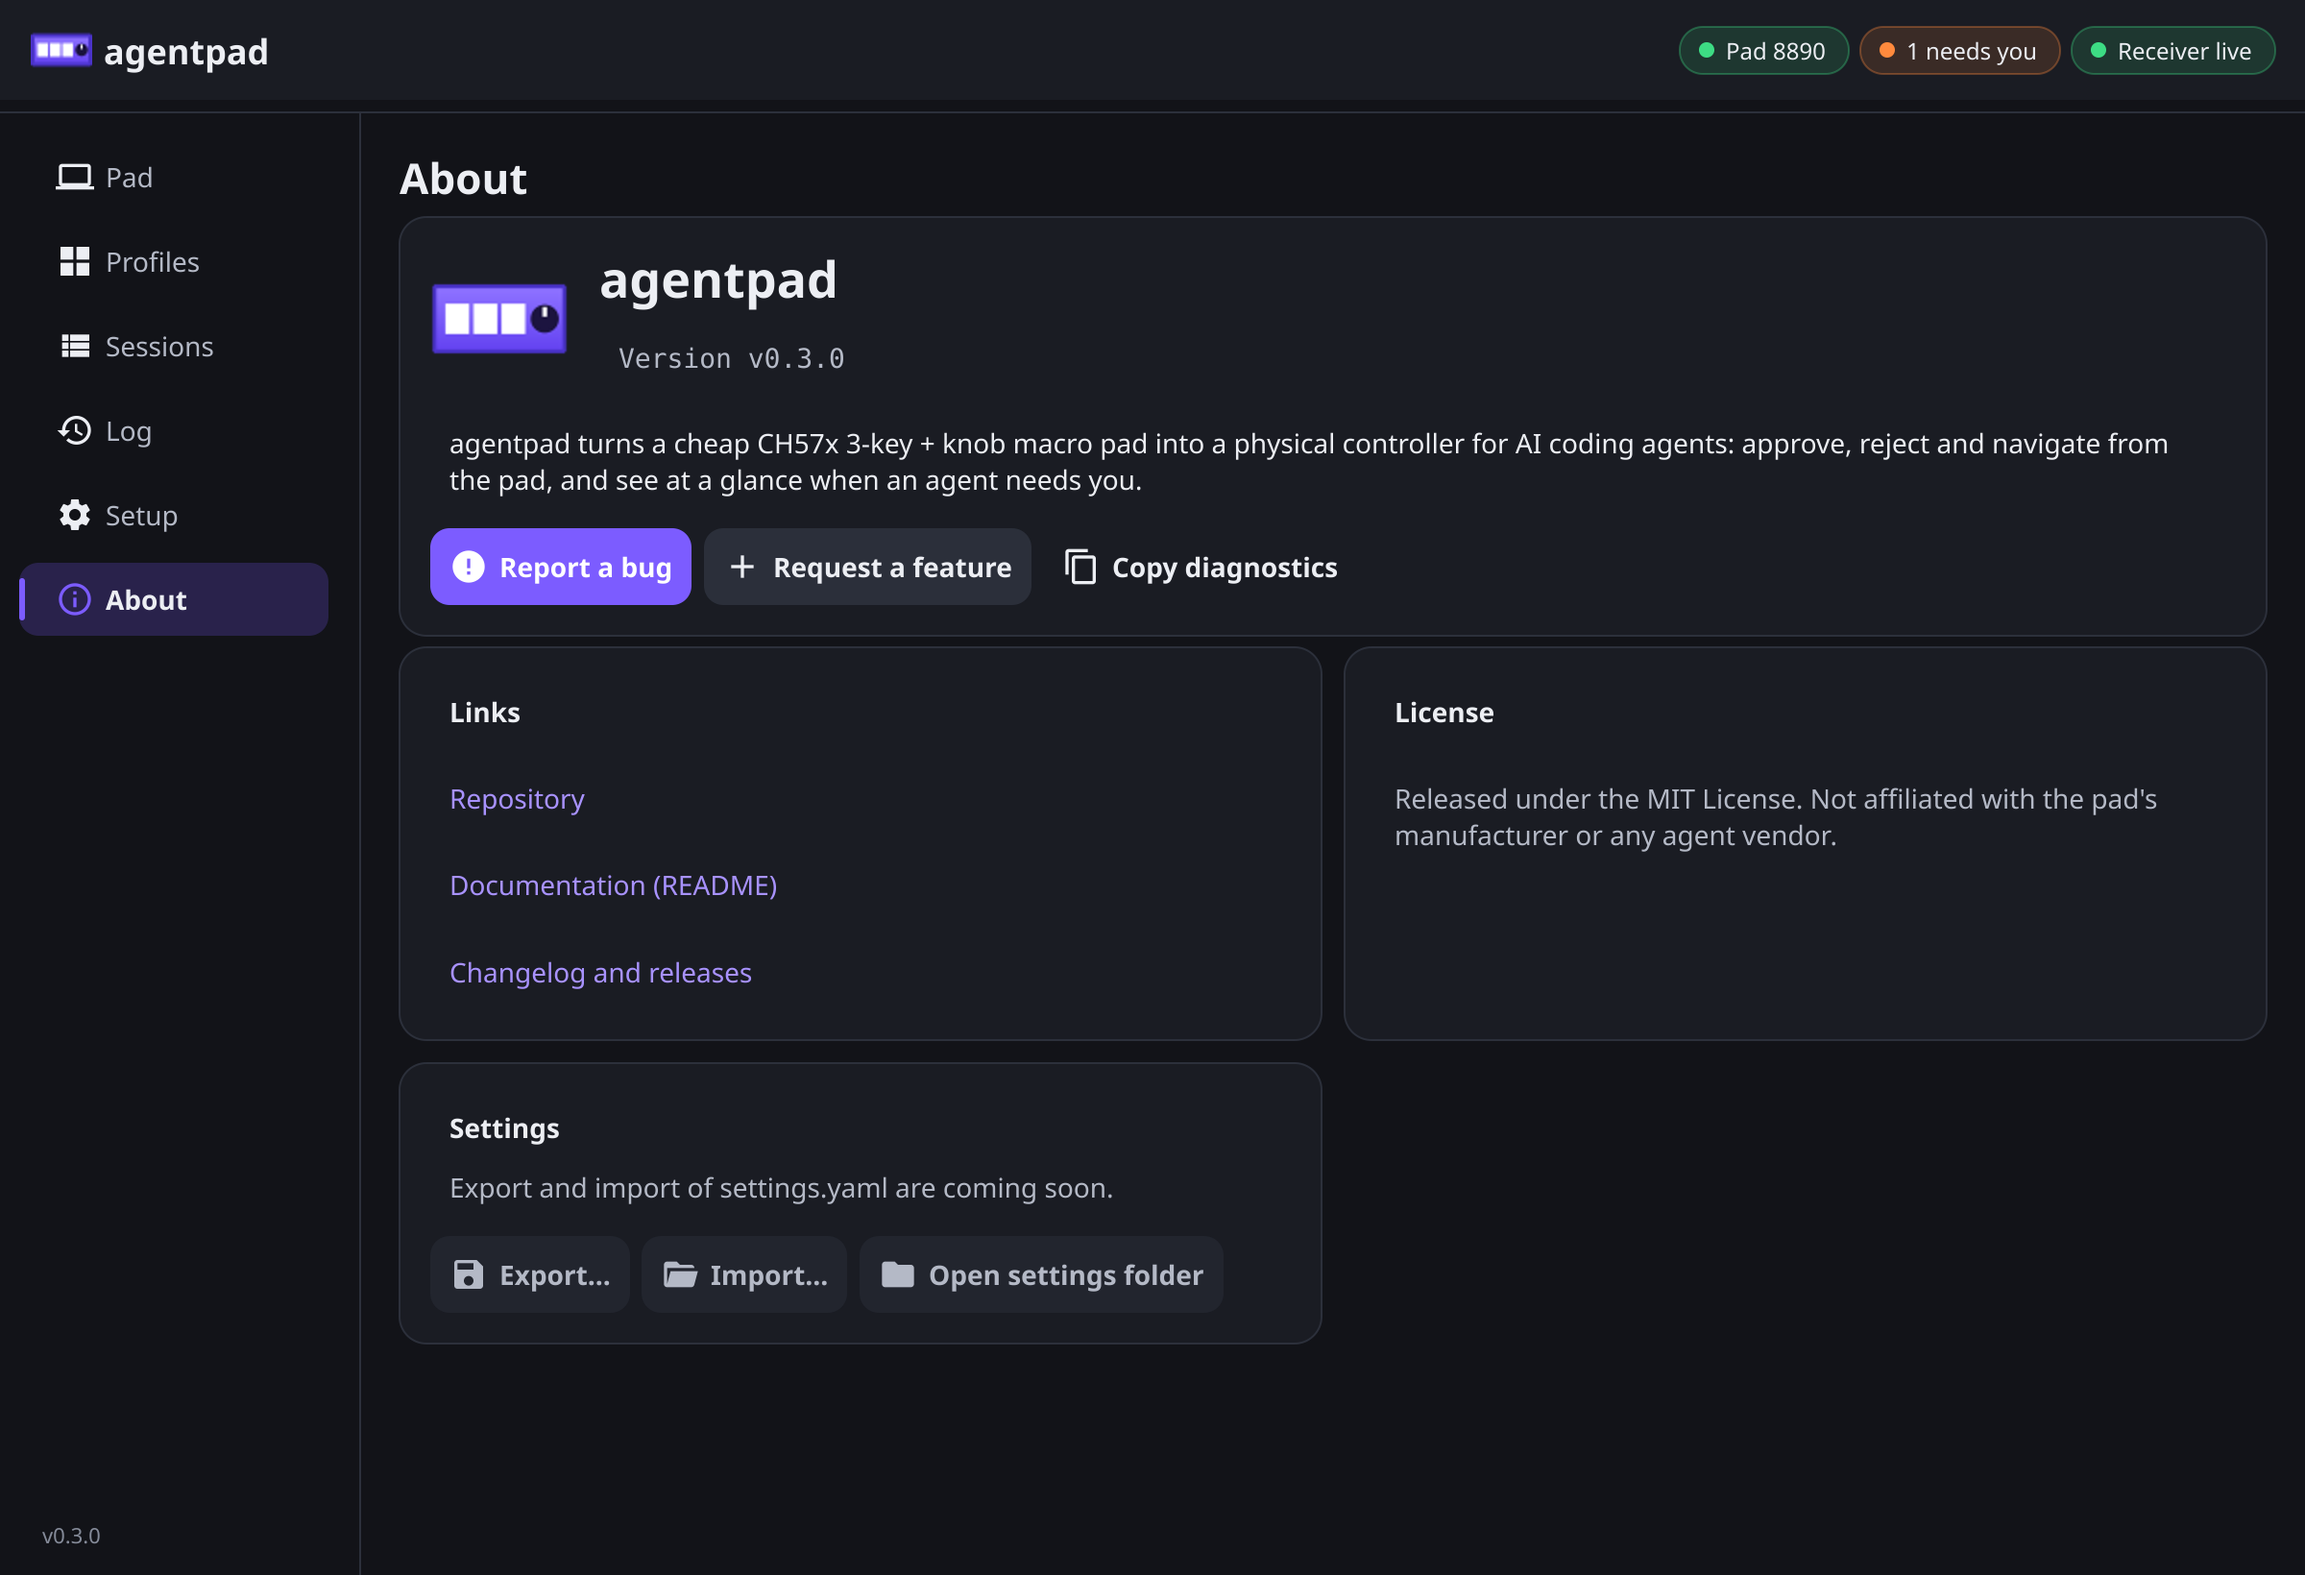
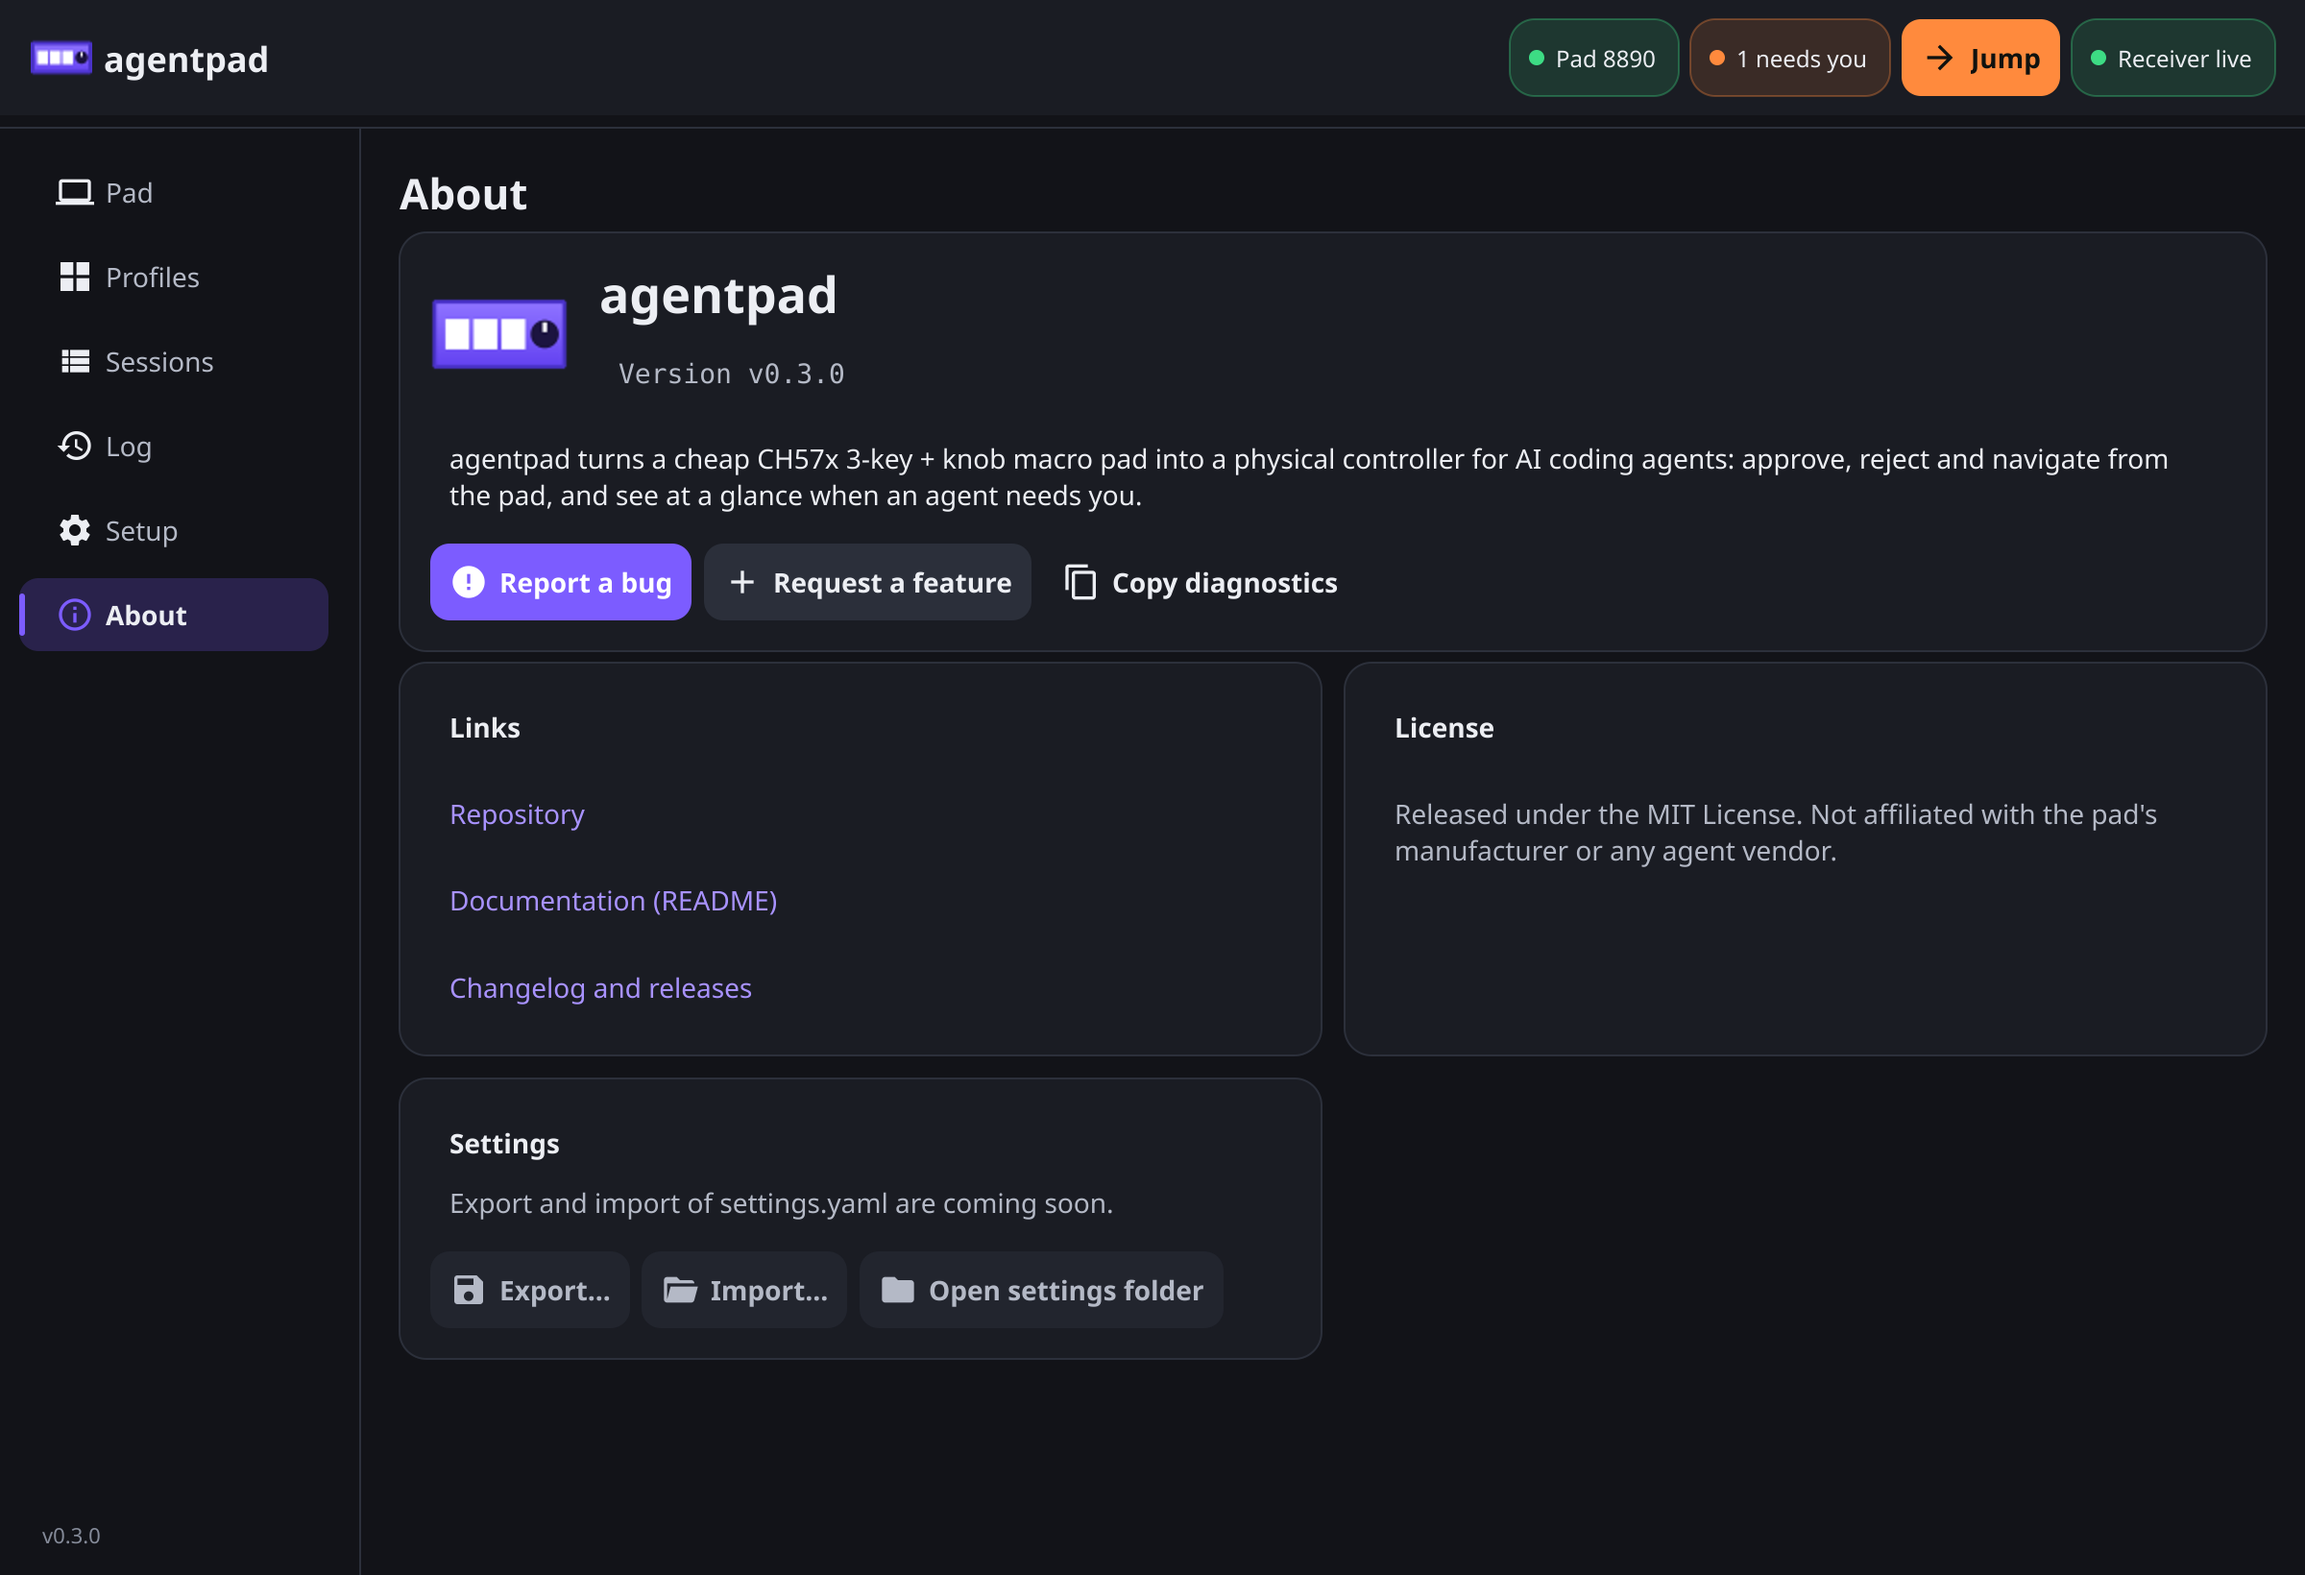
muted edited tag on profile chips, gesture and jump screenshots

diff --git a/internal/ui/screenshots_test.go b/internal/ui/screenshots_test.go
@@ -10,6 +10,8 @@ package ui
 // receiver is started.
 
 import (
+	"context"
+	"errors"
 	"image/png"
 	"os"
 	"path/filepath"
@@ -21,9 +23,16 @@ import (
 	"fyne.io/fyne/v2/theme"
 
 	"github.com/thereisnotime/agentpad/internal/events"
+	"github.com/thereisnotime/agentpad/internal/gesture"
+	"github.com/thereisnotime/agentpad/internal/jump"
 	"github.com/thereisnotime/agentpad/internal/pad"
 	"github.com/thereisnotime/agentpad/internal/profile"
 )
+
+type noJumper struct{}
+
+func (noJumper) Jump(context.Context, events.Session) jump.Report { return jump.Report{} }
+func (noJumper) Close() error                                     { return nil }
 
 type silentInput struct{ ch chan PadInputEvent }
 
@@ -44,6 +53,11 @@ func TestScreenshots(t *testing.T) {
 		LogPath: "/home/me/.local/state/agentpad/events.jsonl",
 		Addr:    "127.0.0.1:47321",
 		Input:   silentInput{make(chan PadInputEvent)},
+		Live:    LiveDevices{Disabled: true},
+		Jumper:  noJumper{},
+		Notifier: func(func(string)) (NotifyBackend, error) {
+			return nil, errors.New("no notifications in screenshots")
+		},
 	})
 	u.ledFollow.Store(false)
 	t.Cleanup(u.shutdown)
@@ -107,9 +121,30 @@ func TestScreenshots(t *testing.T) {
 		u.profiles.selectControl(ctlKey2)
 	})
 	u.profiles.rotate(profile.OrientNormal)
-	shot("pad-wide", screenPad, 1200, 980, nil)
-	shot("pad-narrow", screenPad, 500, 1400, nil)
+	shot("pad-wide", screenPad, 1200, 1180, nil)
+	shot("pad-narrow", screenPad, 500, 1700, nil)
 	shot("sessions-wide", screenSessions, 1200, 700, nil)
+	shot("sessions-jump", screenSessions, 500, 900, nil)
+
+	// gesture mode: inspector with gesture slots, monitor, mode card
+	gst := liveStatus{Mode: ModeGesture, Reading: true, Backend: "uinput"}
+	u.mode = ModeGesture
+	u.profiles.setMode(ModeGesture)
+	u.pad.showMode(ModeGesture, gst)
+	for i, ev := range []gesture.Event{
+		{Gesture: gesture.Gesture{Control: gesture.KnobCW, Kind: gesture.PressRotate}, Action: "shift-tab"},
+		{Gesture: gesture.Gesture{Control: gesture.Key1, Kind: gesture.Tap}, Action: "1"},
+		{Gesture: gesture.Gesture{Control: "key1+key3", Kind: gesture.Chord}},
+		{Gesture: gesture.Gesture{Control: gesture.Key3, Kind: gesture.Hold}, Action: "ctrl-c"},
+	} {
+		ev.Time = time.Now().Add(time.Duration(i-4) * time.Second)
+		u.profiles.monitorAdd(gestureLine(ev))
+	}
+	shot("profiles-gestures", screenProfiles, 1200, 1340, func() { u.profiles.selectControl(ctlKey3) })
+	shot("pad-gesture", screenPad, 1200, 1180, nil)
+	u.mode = ModePlain
+	u.profiles.setMode(ModePlain)
+	u.pad.showMode(ModePlain, liveStatus{Mode: ModePlain})
 	shot("log-wide", screenLog, 1200, 600, nil)
 	shot("setup-wide", screenSetup, 1200, 900, nil)
 	shot("about-wide", screenAbout, 1200, 820, nil)

diff --git a/internal/ui/widgets.go b/internal/ui/widgets.go
@@ -276,12 +276,13 @@ var (
 
 // ---- chip ------------------------------------------------------------------------
 
-// chip is a rounded, selectable label with an optional badge dot.
+// chip is a rounded, selectable label with an optional muted text tag
+// (e.g. "edited").
 type chip struct {
 	*tapBox
 	bg       *canvas.Rectangle
 	label    *canvas.Text
-	badge    *canvas.Circle
+	tag      *canvas.Text
 	selected bool
 	hovered  bool
 }
@@ -290,9 +291,9 @@ func newChip(label string, mono bool, onTap func()) *chip {
 	c := &chip{bg: roundRect(colSurface2, 15), label: text(label, 13, colText, false)}
 	c.label.TextStyle.Monospace = mono
 	c.bg.StrokeWidth = 1
-	c.badge = canvas.NewCircle(colorAttention)
-	c.badge.Hide()
-	row := container.NewHBox(vcenter(c.label), vcenter(fixed(7, 7, c.badge)))
+	c.tag = text("", 11, colText3, false)
+	c.tag.Hide()
+	row := container.NewHBox(vcenter(c.label), vcenter(c.tag))
 	c.tapBox = newTapBox(container.NewStack(c.bg, inset(5, 5, 12, 12, row)), onTap, func(h bool) {
 		c.hovered = h
 		c.restyle()
@@ -308,12 +309,15 @@ func (c *chip) setSelected(on bool) {
 	}
 }
 
-func (c *chip) setBadge(on bool) {
-	if on {
-		c.badge.Show()
+// setTag shows a small muted tag after the label ("" hides it).
+func (c *chip) setTag(s string) {
+	c.tag.Text = s
+	if s == "" {
+		c.tag.Hide()
 	} else {
-		c.badge.Hide()
+		c.tag.Show()
 	}
+	c.restyle()
 }
 
 func (c *chip) restyle() {
@@ -329,8 +333,13 @@ func (c *chip) restyle() {
 		c.label.Color = colText
 	}
 	c.label.TextStyle.Bold = c.selected
+	c.tag.Color = colText3
+	if c.selected {
+		c.tag.Color = withAlpha(rgb(0xffffff), 0xb0)
+	}
 	c.bg.Refresh()
 	c.label.Refresh()
+	c.tag.Refresh()
 }
 
 // chipRow wraps chips onto as many lines as needed.

diff --git a/internal/ui/tab_profiles.go b/internal/ui/tab_profiles.go
@@ -153,7 +153,9 @@ func (t *profilesTab) reload(keep string) {
 	for i, p := range list {
 		i := i
 		c := newChip(p.Name, false, func() { t.selectProfile(i) })
-		c.setBadge(t.u.deps.Store.IsOverridden(p.Name))
+		if editedBuiltin(p.Name, t.u.deps.Store.IsOverridden(p.Name)) {
+			c.setTag("edited")
+		}
 		t.chips.Add(c)
 		if p.Name == keep {
 			idx = i
@@ -202,11 +204,11 @@ func (t *profilesTab) loadInspector() {
 	t.loading = true
 	defer func() { t.loading = false }()
 	t.inspTitle.SetText(t.control.title())
-	modified := ""
-	if t.u.deps.Store.IsOverridden(t.draft.Name) {
-		modified = " · edited"
+	sub := "Layer 1 · " + t.draft.Name
+	if editedBuiltin(t.draft.Name, t.u.deps.Store.IsOverridden(t.draft.Name)) {
+		sub += "\n" + editedNote
 	}
-	t.inspSub.SetText("Layer 1 · " + t.draft.Name + modified)
+	t.inspSub.SetText(sub)
 	t.slotsBox.Objects = nil
 	clear(t.entries)
 	slots := slotsFor(t.control, t.draft, t.gestureMode)
@@ -344,6 +346,7 @@ func (t *profilesTab) refreshMonitor(now time.Time) {
 		txt.Color = withAlpha(c, monitorAlpha(i, now.Sub(items[i].At)))
 		txt.Refresh()
 	}
+	t.monitor.Refresh() // text sizes changed
 }
 
 func (t *profilesTab) rotate(o profile.Orientation) {

diff --git a/internal/ui/integrate_test.go b/internal/ui/integrate_test.go
@@ -801,3 +801,20 @@ func TestEditFileOpensExisting(t *testing.T) {
 		t.Errorf("opened %q", opened)
 	}
 }
+
+func TestEditedTag(t *testing.T) {
+	if !editedBuiltin("codex", true) || editedBuiltin("codex", false) || editedBuiltin("my-own", true) {
+		t.Error("only overridden built-ins are tagged")
+	}
+	u := newTestUI(t)
+	p := u.profiles
+	p.entry().SetText("f13")
+	p.save()
+	ch := p.chips.Objects[p.selected].(*chip)
+	if !ch.tag.Visible() || ch.tag.Text != "edited" || !strings.Contains(p.inspSub.Text, editedNote) {
+		t.Errorf("tag %q visible=%v sub=%q", ch.tag.Text, ch.tag.Visible(), p.inspSub.Text)
+	}
+	if other := p.chips.Objects[(p.selected+1)%len(p.chips.Objects)].(*chip); other.tag.Visible() {
+		t.Error("untouched profiles have no tag")
+	}
+}

diff --git a/internal/ui/controls.go b/internal/ui/controls.go
@@ -250,3 +250,20 @@ func capLabel(action string, n int) string {
 	}
 	return string(r[:n-1]) + "…"
 }
+
+// editedNote explains the "edited" tag on a built-in profile.
+const editedNote = "Edited · differs from the built-in, Reset restores it"
+
+// editedBuiltin reports whether a profile gets the "edited" tag: a built-in
+// with a stored override. Profiles only the user has get no tag.
+func editedBuiltin(name string, overridden bool) bool {
+	if !overridden {
+		return false
+	}
+	for _, b := range profile.Builtins() {
+		if b.Name == name {
+			return true
+		}
+	}
+	return false
+}

diff --git a/docs/profiles.md b/docs/profiles.md
@@ -39,4 +39,5 @@ The editor offers all supported names as suggestions.
 
 - Built-in profiles are compiled in.
 - Your edits are stored as YAML overrides in `~/.config/agentpad/profiles/<name>.yaml`; **Reset** deletes the override.
+  An edited built-in shows a small "edited" tag on its chip.
 - Orientation and LED settings are app preferences, not part of profiles.
